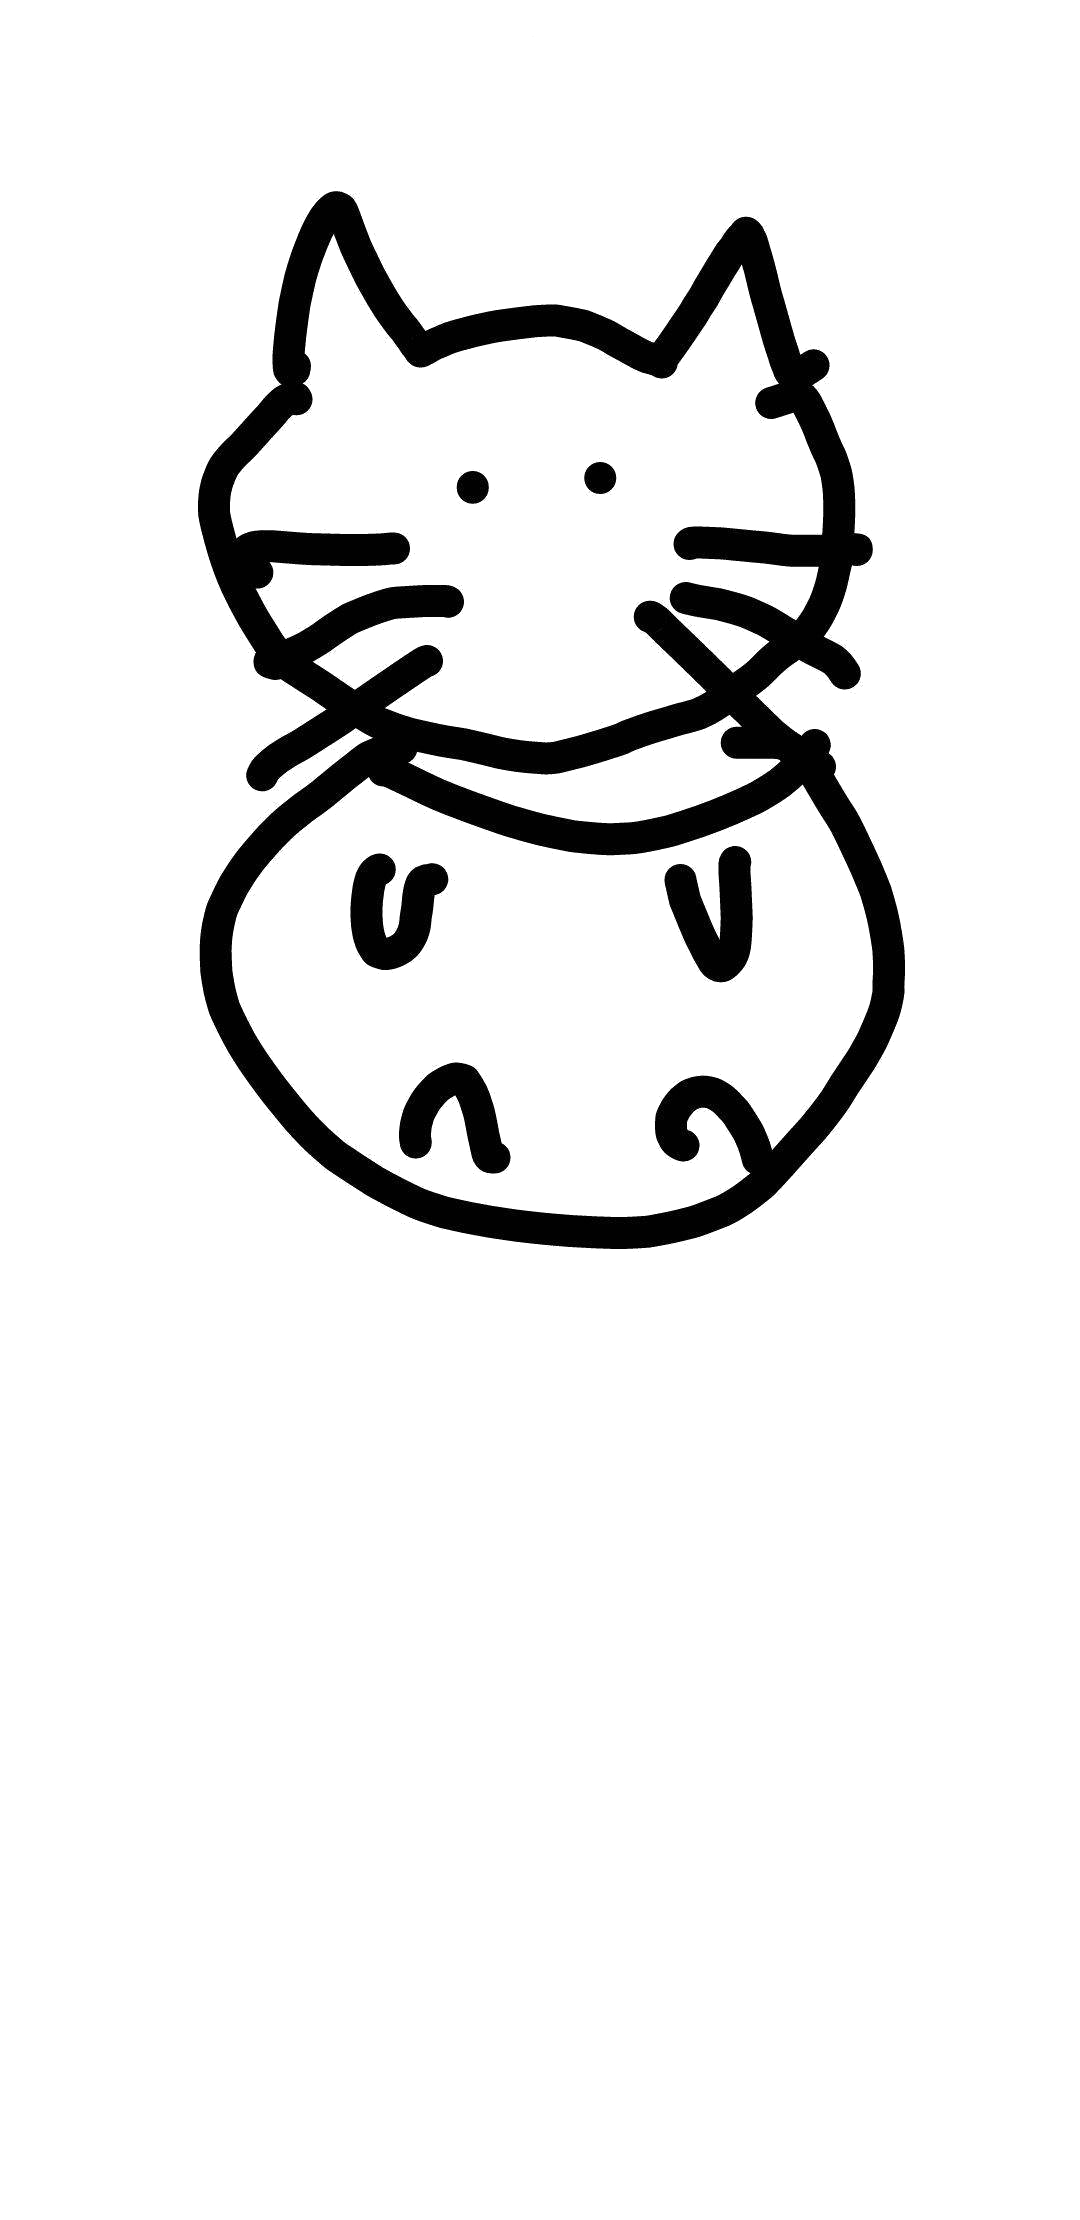
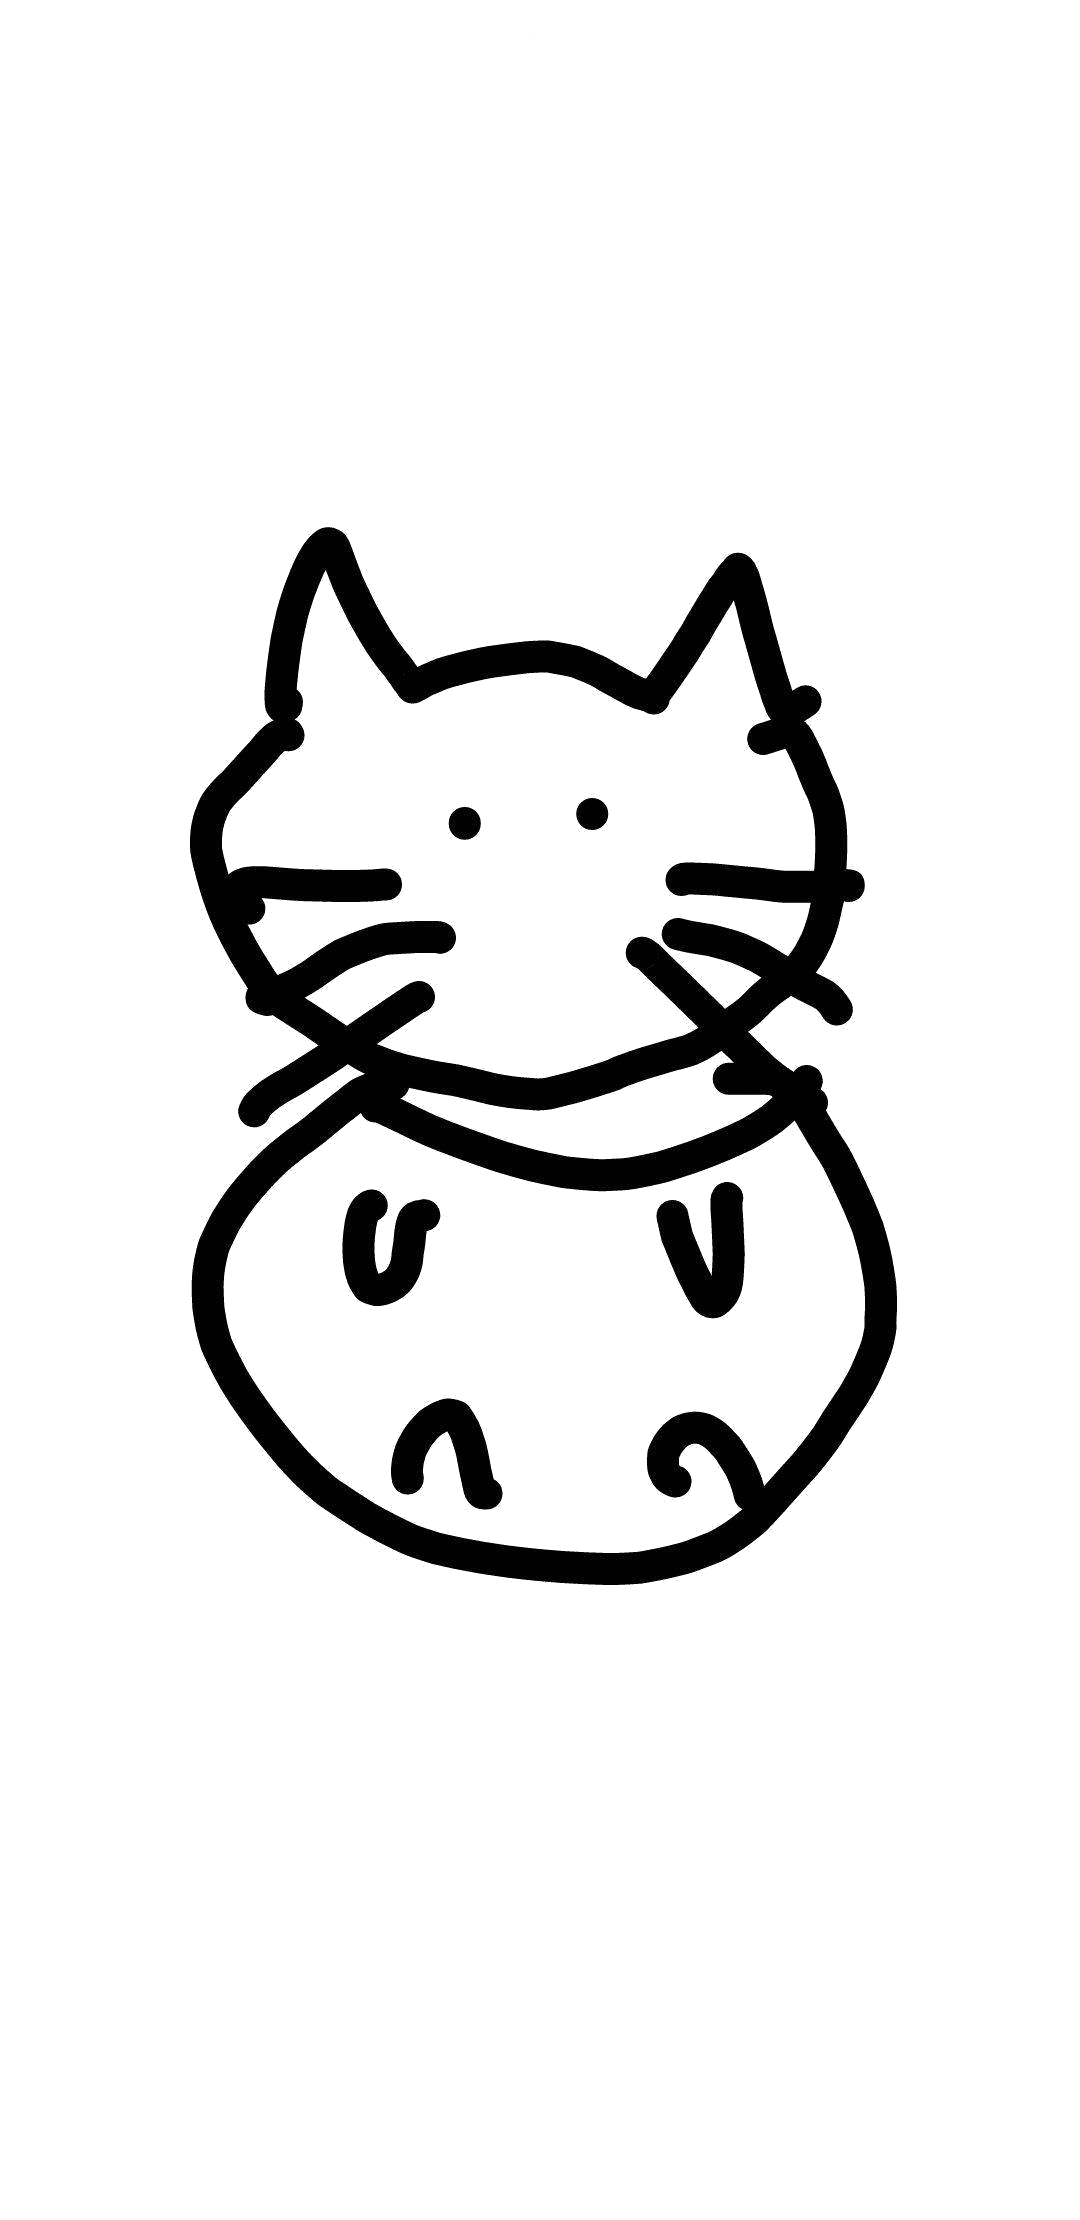
cat +1 & move to sketch.js

Changed region(s): [[0.1528, 0.0622, 0.8556, 0.7149], [0.4278, 0.1865, 0.4583, 0.2486]]

diff --git a/index.html b/index.html
@@ -3,52 +3,7 @@
   <script src="p5/p5.js"></script>
   <script src="p5/addons/p5.sound.min.js"></script>
   <script src="p5/addons/p5.play.js"></script>
-  <script>
-  var spin;
-  var direction = 90; //spin initial direction moving down
-  var mic;
-  var life = 3;
-
-  function setup() {
-    mic = new p5.AudioIn() //set things up
-    mic.start(); //Start up the mic
-    createCanvas(window.innerWidth,800); // How large your drawing is in (x,y)
-
-    spin1 = createSprite(200, 200, 1, 1); //(x,y,??,??) origin @ top left corner
-    spin1.addAnimation("floating", "img/cat_2.png"); //change to cat_2.png for other cat
-  }
-
-  function draw() {
-    micLevel = mic.getLevel(); //micLevel is the LOUDNESS value from mic
-    background(255,255,255);  //Backgrouond color
-    
-    fill(150, 150, 150, 127);
-    stroke(211, 211, 211);
-    rotate(PI/45.0);
-    rect(0, 300, window.innerWidth, 500); //rectangle for ground
-    //move a sprite by providing a speed and an angle
-    direction += 0 + 100*micLevel;
-    spin1.setSpeed(micLevel*100, direction);//speed, angle
-    //console.log(micLevel*100);
-    
-    //Make it rotate towards direction
-    spin1.rotateToDirection = true;
-    //spin1.position.x = 30;
-    //spin1.position.y = 50;
-
-    if(micLevel*100>5){ //only move if it's loud enough
-      spin1.position.x += micLevel*10;
-    }
-    else if ((micLevel*100<10)&&(spin1.position.x > 30)){
-      spin1.position.x -= 10;
-    }
-    //draw the sprite
-    spin1.scale = .15; //how big do you want the cat?
-
-    drawSprites();
-  }
-
-  </script>
+  <script src="sketch.js"></script>
 </head>
 <body>
 

diff --git a/sketch.js b/sketch.js
@@ -1,0 +1,44 @@
+  var spin;
+  var direction = 90; //spin initial direction moving down
+  var mic;
+  var life = 3;
+
+  function setup() {
+    mic = new p5.AudioIn() //set things up
+    mic.start(); //Start up the mic
+    createCanvas(window.innerWidth,800); // How large your drawing is in (x,y)
+
+    spin1 = createSprite(200, 200, 1, 1); //(x,y,??,??) origin @ top left corner
+    spin1.addAnimation("floating", "img/cat_3.png"); //change to cat_2.png for other cat
+  }
+
+  function draw() {
+    micLevel = mic.getLevel(); //micLevel is the LOUDNESS value from mic
+    background(255,255,255);  //Backgrouond color
+    
+    fill(150, 150, 150, 127);
+    stroke(211, 211, 211);
+    rotate(PI/45.0);
+    rect(0, 300, window.innerWidth, 500); //rectangle for ground
+    //move a sprite by providing a speed and an angle
+    direction += 0 + 100*micLevel;
+    spin1.setSpeed(micLevel*100, direction);//speed, angle
+    //console.log(micLevel*100);
+    
+    //Make it rotate towards direction
+    spin1.rotateToDirection = true;
+    //spin1.position.x = 30;
+    //spin1.position.y = 50;
+
+    if(micLevel*100>5){ //only move if it's loud enough
+      spin1.position.x += micLevel*10;
+    }
+    else if ((micLevel*100<10)&&(spin1.position.x > 30)){
+      spin1.position.x -= 10;
+    }
+    //draw the sprite
+    spin1.scale = .15; //how big do you want the cat?
+
+    drawSprites();
+  }
+
